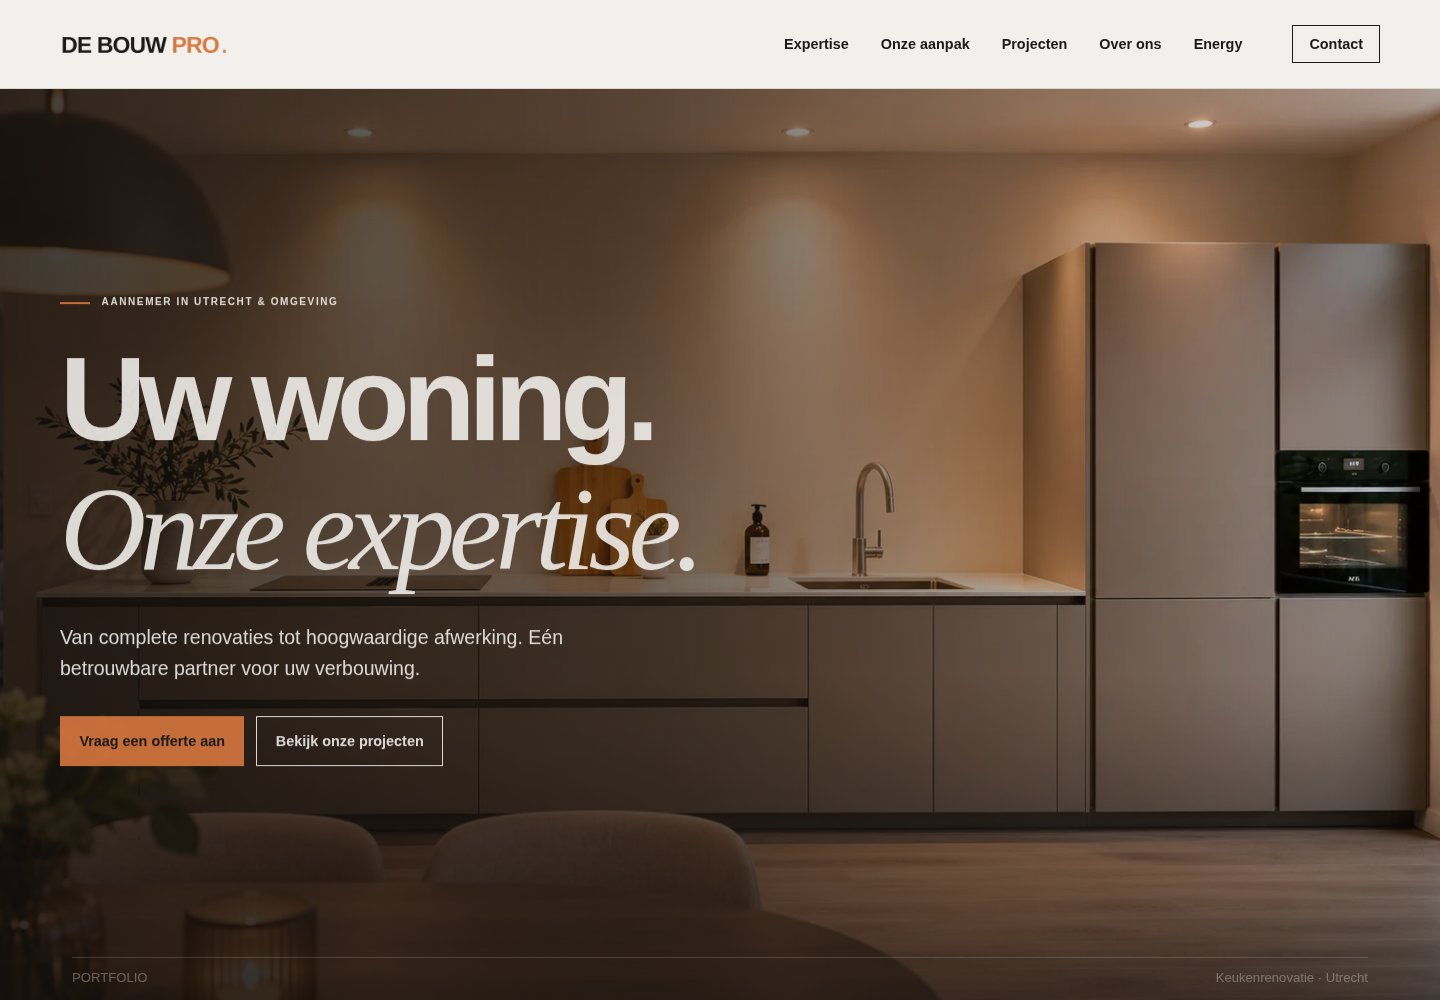
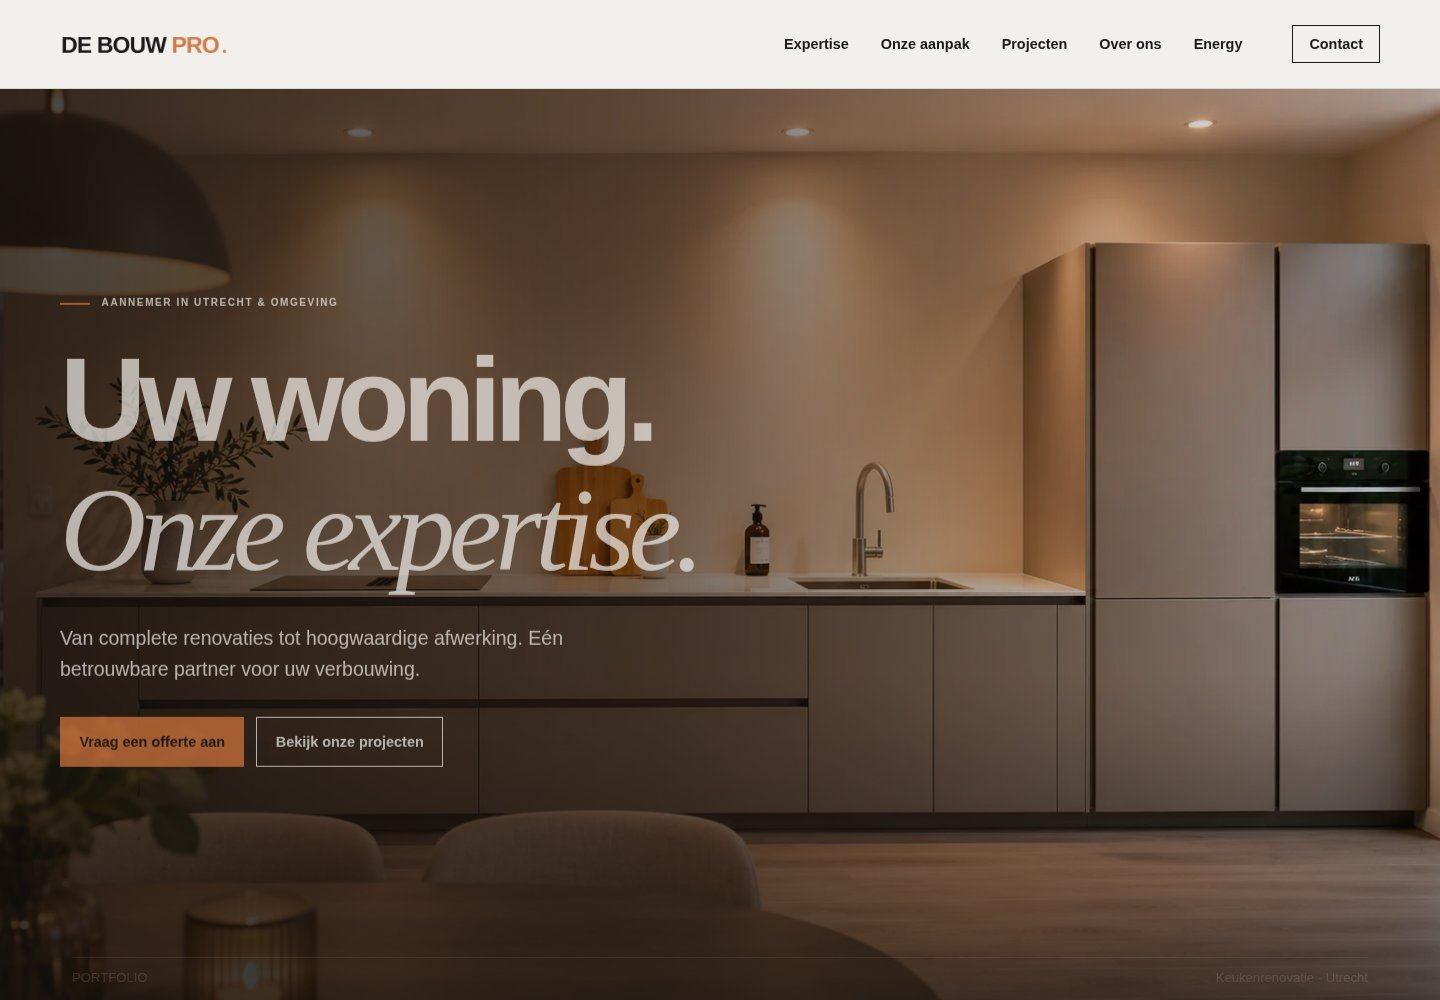
Soften hero motion with gentler overlapping entrance

diff --git a/assets/concept-v3.css b/assets/concept-v3.css
@@ -556,16 +556,18 @@
     opacity: 0;
   }
   .home-hero.hero-warm.hero-sequence-playing::after {
-    animation: hero-shade-arrive 600ms 80ms ease-out both;
+    animation: hero-shade-arrive 850ms 100ms cubic-bezier(0.25, 0.1, 0.25, 1)
+      both;
   }
   .home-hero.hero-warm.hero-sequence-playing .hero-content {
-    animation: hero-copy-arrive 650ms 260ms cubic-bezier(0.2, 0.7, 0.25, 1) both;
+    animation: hero-copy-arrive 950ms 220ms cubic-bezier(0.25, 0.1, 0.25, 1)
+      both;
   }
   .home-hero.hero-warm.hero-sequence-playing h1 {
-    animation: hero-title-focus 650ms 260ms ease-out both;
+    animation: hero-title-focus 950ms 220ms ease-in-out both;
   }
   .home-hero.hero-warm.hero-sequence-playing .hero-credit {
-    animation: hero-credit-arrive 450ms 450ms ease-out both;
+    animation: hero-credit-arrive 650ms 450ms ease-in-out both;
   }
 }
 @keyframes hero-shade-arrive {
@@ -579,7 +581,7 @@
 @keyframes hero-copy-arrive {
   from {
     opacity: 0;
-    transform: translateY(10px);
+    transform: translateY(6px);
   }
   to {
     opacity: 1;
@@ -609,7 +611,7 @@
 
 @keyframes hero-title-focus {
   from {
-    filter: blur(2px);
+    filter: blur(1px);
   }
   to {
     filter: blur(0);

diff --git a/assets/concept-v3.js b/assets/concept-v3.js
@@ -42,7 +42,7 @@ if (hero) {
       requestAnimationFrame(() => {
         if (finished) return;
         hero.classList.add("hero-sequence-playing");
-        safety = setTimeout(finish, 1200);
+        safety = setTimeout(finish, 1600);
       });
     }, finish);
     hero.addEventListener("animationend", (event) => {

diff --git a/docs/hero-graafwerk/README.md b/docs/hero-graafwerk/README.md
@@ -1,3 +1,5 @@
+Follow-up refinement, 26 November: softened the accelerated entrance after owner feedback. Shade now takes 850ms after 100ms; copy overlaps from 220ms for 950ms with a gentler acceleration curve, 6px movement and 1px focus effect. Total entrance is about 1.17 seconds. Keyboard and reduced-motion bypasses remain unchanged.
+
 # Hero entrance and Graafwerk — Playground
 
 **26 November refinement:** the owner requested a quicker, overlapping entrance. Shade now starts after 80ms and lasts 600ms; copy starts after 260ms and lasts 650ms, with a subtle 2px-to-sharp title focus. The whole sequence finishes around 910ms after image readiness rather than 1450ms. Reduced motion, no-JS and keyboard alternatives are retained. Original timing notes below describe the first iteration.
